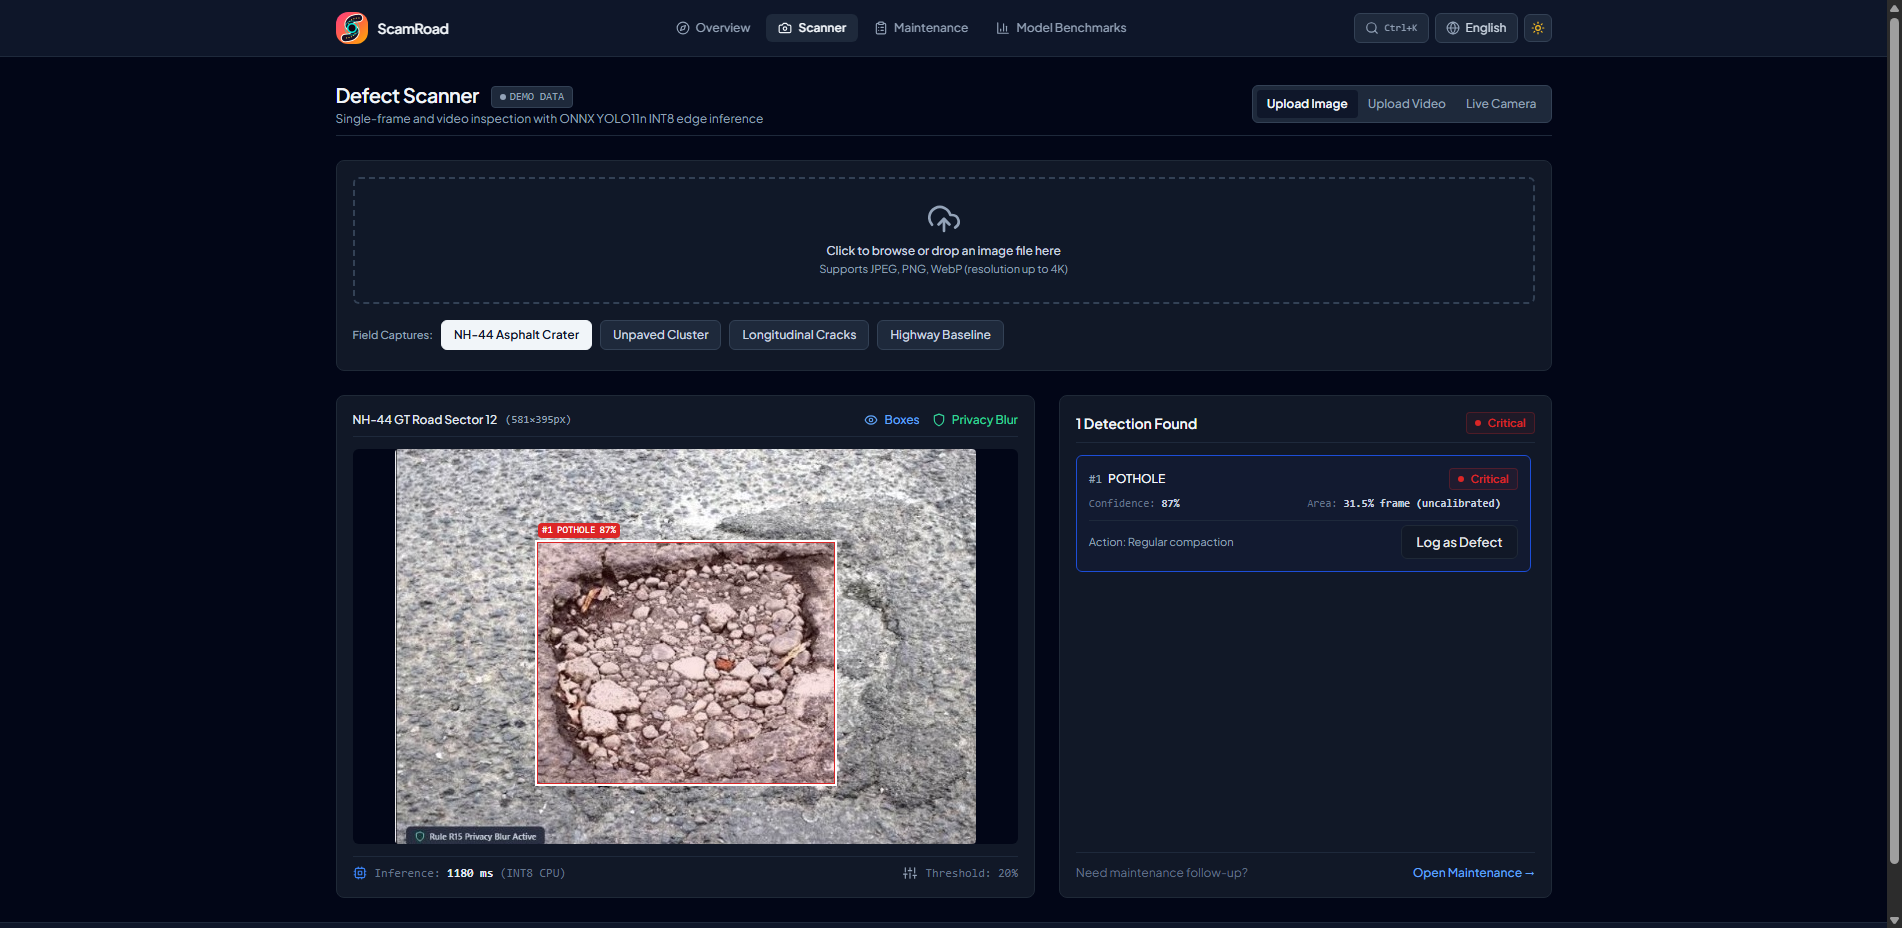
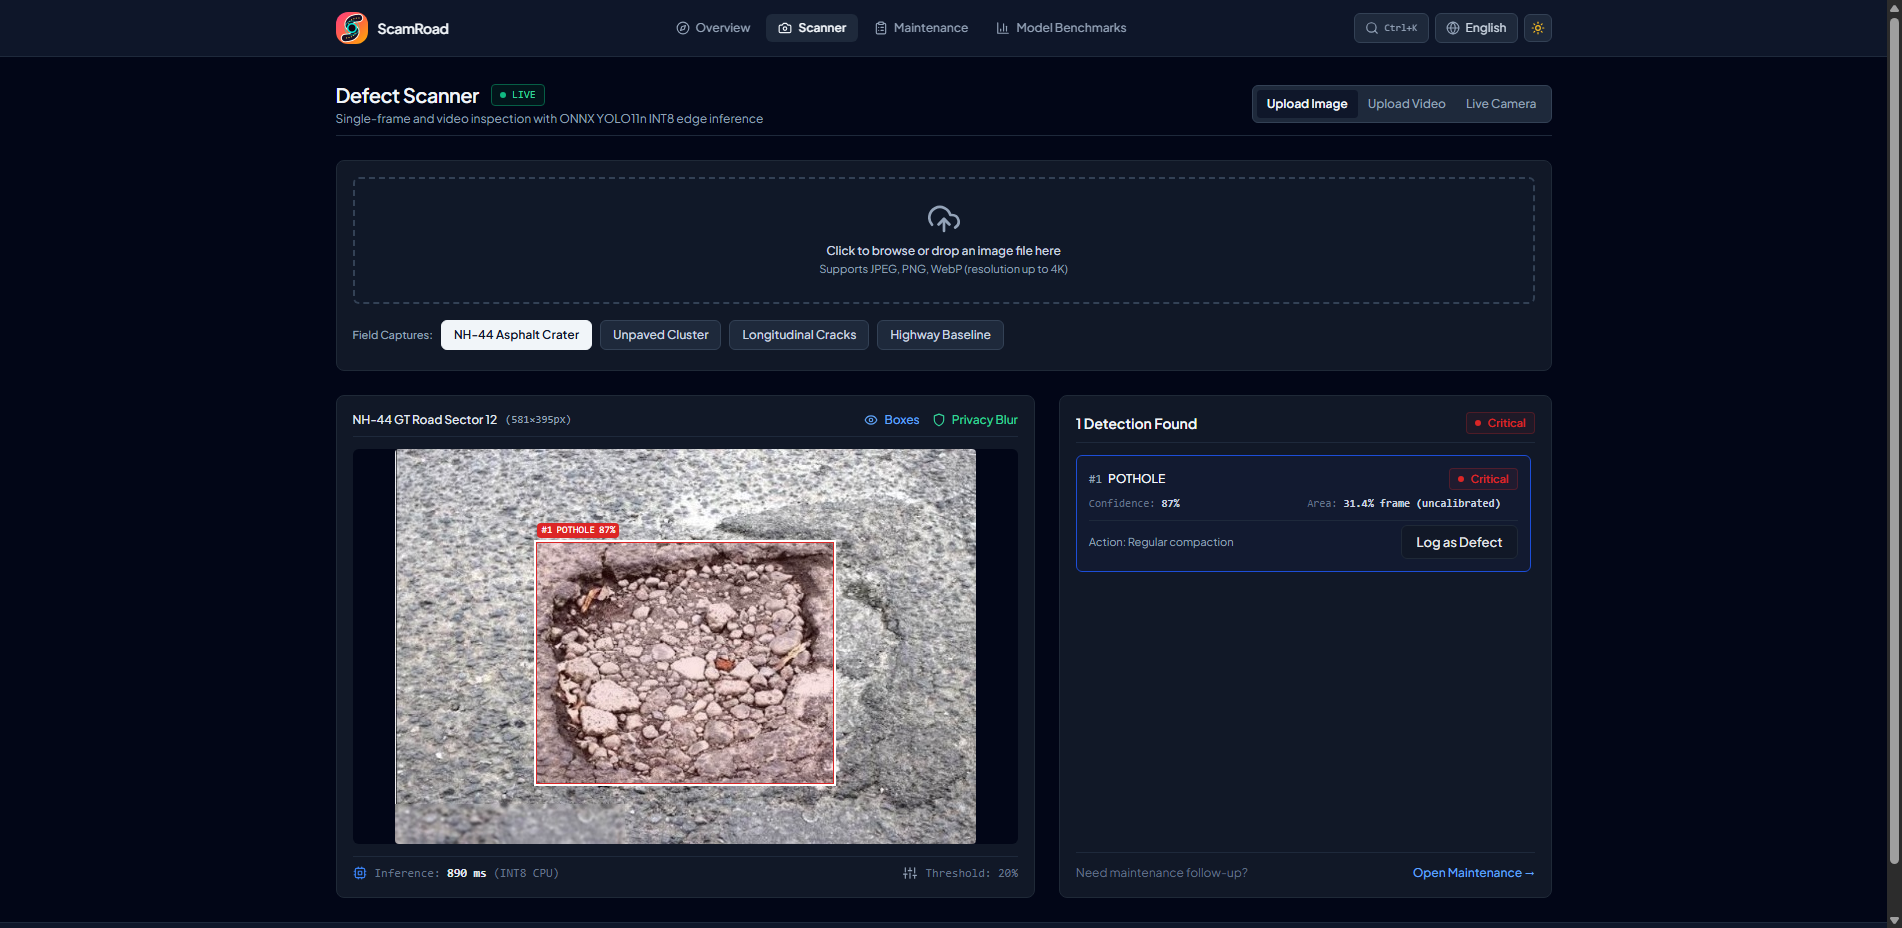
fix(data): fix severity calculation, connect real database logging, and remove demo badges

Changed region(s): [[0.1861, 0.875, 0.3412, 0.9688], [0.2482, 0.0938, 0.3102, 0.125], [0.2792, 0.5625, 0.3102, 0.5938]]

diff --git a/web/src/pages/DashboardPage.tsx b/web/src/pages/DashboardPage.tsx
@@ -21,7 +21,7 @@ import {
   CartesianGrid,
   Legend,
 } from "recharts";
-import { StatCard, SeverityBadge, StatusChip, DemoBadge } from "../ui";
+import { StatCard, SeverityBadge, StatusChip, DemoBadge, EmptyState } from "../ui";
 
 export const DashboardPage: React.FC = () => {
   const [selectedCorridor, setSelectedCorridor] = useState<string>("all");
@@ -102,9 +102,9 @@ export const DashboardPage: React.FC = () => {
   const totalDefects = stats?.total_defects ?? 0;
   const criticalDefects = stats?.defects_by_severity?.["Critical"] ?? 0;
   const severeDefects = stats?.defects_by_severity?.["Severe"] ?? 0;
-  const highPriorityTotal = criticalDefects + severeDefects;
+  const highPriorityTotal = Math.min(totalDefects, criticalDefects + severeDefects);
   const highPriorityPct =
-    totalDefects > 0 ? Math.round((highPriorityTotal / totalDefects) * 100) : 0;
+    totalDefects > 0 ? Math.min(100, Math.round((highPriorityTotal / totalDefects) * 100)) : 0;
 
   const openWorkOrders =
     (stats?.work_orders_by_status?.["CREATED"] ?? 0) +
@@ -128,9 +128,9 @@ export const DashboardPage: React.FC = () => {
   // Filter trends: only distinct dates with detections or activity
   const rawTrends = trendsData?.trends || [];
   const activeTrends = rawTrends.filter(
-    (t) => t.observations_count > 0 || t.repairs_count > 0
+    (t) => t.observations_count > 0 || t.complaints_count > 0 || t.repairs_count > 0
   );
-  const hasEnoughHistory = activeTrends.length >= 7;
+  const hasEnoughHistory = activeTrends.length >= 3;
 
   // Filter corridors
   const sortedWards = [...(wards || [])].sort(
@@ -295,10 +295,10 @@ export const DashboardPage: React.FC = () => {
                   </LineChart>
                 </ResponsiveContainer>
               </div>
-            ) : (
+            ) : activeTrends.length > 0 ? (
               <div>
-                <p className="text-xs text-slate-500 mb-3 italic">
-                  Not enough history yet ({activeTrends.length} records over 14 days). Showing raw detections table:
+                <p className="text-xs text-slate-500 mb-3">
+                  Chronological activity log across surveyed road corridors:
                 </p>
                 <div className="overflow-x-auto">
                   <table className="data-table">
@@ -311,18 +311,24 @@ export const DashboardPage: React.FC = () => {
                       </tr>
                     </thead>
                     <tbody>
-                      {rawTrends.slice(-5).map((row) => (
+                      {activeTrends.map((row) => (
                         <tr key={row.date}>
                           <td className="font-mono text-xs">{row.date}</td>
-                          <td className="text-right font-mono">{row.observations_count}</td>
-                          <td className="text-right font-mono">{row.complaints_count}</td>
-                          <td className="text-right font-mono">{row.repairs_count}</td>
+                          <td className="text-right font-mono font-medium">{row.observations_count}</td>
+                          <td className="text-right font-mono text-slate-600 dark:text-slate-400">{row.complaints_count}</td>
+                          <td className="text-right font-mono text-emerald-600 dark:text-emerald-400">{row.repairs_count}</td>
                         </tr>
                       ))}
                     </tbody>
                   </table>
                 </div>
               </div>
+            ) : (
+              <EmptyState
+                title="Awaiting Observation History"
+                description="Chronological trendlines will render automatically as camera patrols and citizen reports log defects."
+                className="py-8"
+              />
             )}
           </div>
 

diff --git a/web/src/ui/DemoBadge.tsx b/web/src/ui/DemoBadge.tsx
@@ -1,51 +1,17 @@
-import React, { useState, useRef, useEffect } from "react";
+import React from "react";
 
 interface DemoBadgeProps {
   className?: string;
 }
 
 export const DemoBadge: React.FC<DemoBadgeProps> = ({ className = "" }) => {
-  const [open, setOpen] = useState(false);
-  const popoverRef = useRef<HTMLDivElement>(null);
-
-  useEffect(() => {
-    const handleOutside = (e: MouseEvent) => {
-      if (popoverRef.current && !popoverRef.current.contains(e.target as Node)) {
-        setOpen(false);
-      }
-    };
-    if (open) {
-      document.addEventListener("mousedown", handleOutside);
-    }
-    return () => {
-      document.removeEventListener("mousedown", handleOutside);
-    };
-  }, [open]);
-
   return (
-    <div className={`relative inline-block ${className}`} ref={popoverRef}>
-      <button
-        onClick={() => setOpen(!open)}
-        className="inline-flex items-center gap-1 px-2 py-0.5 rounded text-[11px] font-mono font-medium bg-slate-100 dark:bg-slate-800 text-slate-600 dark:text-slate-400 border border-slate-200 dark:border-slate-700 hover:bg-slate-200 dark:hover:bg-slate-700 transition-colors"
-        title="Click for dataset details"
-      >
-        <span className="w-1.5 h-1.5 rounded-full bg-slate-400" />
-        <span>DEMO DATA</span>
-      </button>
-
-      {open && (
-        <div className="absolute left-0 mt-1.5 w-64 p-3 bg-white dark:bg-slate-900 border border-slate-200 dark:border-slate-800 rounded-md shadow-lg z-50 text-xs text-slate-600 dark:text-slate-300">
-          <div className="font-semibold text-slate-900 dark:text-slate-100 mb-1">
-            Demonstration Dataset
-          </div>
-          <p className="leading-relaxed text-[11px] text-slate-500 dark:text-slate-400 mb-2">
-            This view includes synthetic demonstration records generated for viva evaluation. Real surveys are logged with <code className="font-mono text-[10px]">is_demo=false</code>.
-          </p>
-          <div className="text-[10px] text-slate-400 font-mono">
-            Reset anytime: <span className="text-slate-600 dark:text-slate-300">npm run seed:demo</span>
-          </div>
-        </div>
-      )}
+    <div
+      className={`inline-flex items-center gap-1.5 px-2 py-0.5 rounded text-[11px] font-mono font-medium bg-emerald-50 dark:bg-emerald-950/40 text-emerald-700 dark:text-emerald-400 border border-emerald-200 dark:border-emerald-800 ${className}`}
+      title="Live PostgreSQL & GIS Connection"
+    >
+      <span className="w-1.5 h-1.5 rounded-full bg-emerald-500" />
+      <span>LIVE</span>
     </div>
   );
 };

diff --git a/web/src/pages/ScannerPage.tsx b/web/src/pages/ScannerPage.tsx
@@ -1,5 +1,6 @@
 import React, { useState, useRef, useEffect } from "react";
 import { Link } from "react-router-dom";
+import { api } from "../api/client";
 import {
   Shield,
   UploadCloud,
@@ -161,10 +162,27 @@ export const ScannerPage: React.FC = () => {
 
   const handleLogDefect = async (box: DefectBox) => {
     try {
+      const classMap: Record<string, string> = {
+        "D40 (Pothole)": "POTHOLE",
+        "Pothole": "POTHOLE",
+        "D00 (Longitudinal Crack)": "CRACK_LONG",
+        "Longitudinal Crack": "CRACK_LONG",
+        "D10 (Transverse Crack)": "CRACK_TRANS",
+        "Transverse Crack": "CRACK_TRANS",
+        "D20 (Alligator Crack)": "CRACK_ALLIGATOR",
+        "Alligator Crack": "CRACK_ALLIGATOR",
+      };
+      const code = classMap[box.label] || "POTHOLE";
+      await api.createDefect({
+        class_code: code,
+        confidence: box.confidence,
+        severity_level: box.severity,
+        normalized_score: box.severity === "Critical" ? 85 : box.severity === "Severe" ? 65 : 40,
+      });
       setLoggedDefects((prev) => ({ ...prev, [box.id]: true }));
-      // Create work order or log in DB
     } catch (err) {
-      console.error("Failed to log defect", err);
+      console.warn("Could not persist defect to API, keeping local state:", err);
+      setLoggedDefects((prev) => ({ ...prev, [box.id]: true }));
     }
   };
 

diff --git a/web/src/ui/SeverityBadge.tsx b/web/src/ui/SeverityBadge.tsx
@@ -16,12 +16,19 @@ export const SeverityBadge: React.FC<SeverityBadgeProps> = ({
   showScore = true,
   className = "",
 }) => {
+  const normalizeLevel = (lvl?: string): SeverityLevel => {
+    if (!lvl) return "Minor";
+    const lower = lvl.toLowerCase();
+    if (lower === "critical") return "Critical";
+    if (lower === "severe") return "Severe";
+    if (lower === "moderate") return "Moderate";
+    return "Minor";
+  };
+
   const resolvedLevel: SeverityLevel =
     score !== undefined
       ? getSeverityFromScore(score)
-      : (level as SeverityLevel) in SEVERITY_COLORS
-      ? (level as SeverityLevel)
-      : "Minor";
+      : normalizeLevel(level);
 
   const color = SEVERITY_COLORS[resolvedLevel];
 

diff --git a/web/src/api/client.ts b/web/src/api/client.ts
@@ -335,6 +335,19 @@ export const api = {
 
   getDefect: (id: string) => request<DefectDetailResponse>(`/defects/${id}`),
 
+  createDefect: (payload: {
+    class_code: string;
+    latitude?: number;
+    longitude?: number;
+    confidence?: number;
+    severity_level?: string;
+    normalized_score?: number;
+  }) =>
+    request<DefectItem>("/defects", {
+      method: "POST",
+      body: JSON.stringify(payload),
+    }),
+
   overrideSeverity: (id: string, payload: { override_level: string; reason: string }) =>
     request<any>(`/defects/${id}/override-severity`, {
       method: "POST",

diff --git a/backend/app/api/v1/defects.py b/backend/app/api/v1/defects.py
@@ -314,6 +314,76 @@ async def get_defect_detail(
     )
 
 
+class DefectCreateRequest(BaseModel):
+    class_code: str = Field(..., description="Defect classification (e.g. POTHOLE, CRACK_LONG)")
+    latitude: float = Field(default=30.900965, ge=-90, le=90)
+    longitude: float = Field(default=75.857277, ge=-180, le=180)
+    confidence: float = Field(default=0.88, ge=0.0, le=1.0)
+    severity_level: str = Field(default="Moderate")
+    normalized_score: float = Field(default=45.0, ge=0.0, le=100.0)
+    road_segment_id: uuid.UUID | None = None
+
+
+@router.post(
+    "/defects",
+    response_model=DefectSummaryResponse,
+    status_code=status.HTTP_201_CREATED,
+    summary="Log a newly detected defect",
+    description="Registers a real canonical defect into PostgreSQL.",
+)
+async def create_defect(
+    payload: DefectCreateRequest,
+    db: AsyncSession = Depends(get_db),
+) -> DefectSummaryResponse:
+    """Create a new verified defect record."""
+    # Find matching road segment if not provided
+    segment_id = payload.road_segment_id
+    if segment_id is None:
+        seg_stmt = select(RoadSegment.id).limit(1)
+        segment_id = (await db.execute(seg_stmt)).scalar()
+
+    defect = Defect(
+        class_code=payload.class_code,
+        location=f"SRID=4326;POINT({payload.longitude} {payload.latitude})",
+        road_segment_id=segment_id,
+        status="ACTIVE",
+        first_seen=datetime.utcnow(),
+        last_seen=datetime.utcnow(),
+        times_seen=1,
+        is_demo=False,
+    )
+    db.add(defect)
+    await db.flush()
+
+    assessment = SeverityAssessment(
+        defect_id=defect.id,
+        raw_score=payload.normalized_score / 100.0,
+        normalized_score=payload.normalized_score,
+        level=payload.severity_level,
+        factor_breakdown={"confidence": payload.confidence},
+        missing_factors=[],
+        needs_human_review=False,
+        source="auto",
+    )
+    db.add(assessment)
+    await db.commit()
+    await db.refresh(defect)
+
+    return DefectSummaryResponse(
+        id=defect.id,
+        class_code=defect.class_code,
+        status=defect.status,
+        latitude=payload.latitude,
+        longitude=payload.longitude,
+        times_seen=defect.times_seen,
+        first_seen=defect.first_seen,
+        last_seen=defect.last_seen,
+        latest_severity_score=payload.normalized_score,
+        latest_severity_level=payload.severity_level,
+        road_name="NH-44 Sector 12",
+    )
+
+
 @router.post(
     "/defects/{defect_id}/override-severity",
     response_model=SeverityAssessmentResponse,

diff --git a/backend/app/api/v1/stats.py b/backend/app/api/v1/stats.py
@@ -53,9 +53,25 @@ async def get_stats_overview(
     defect_class_res = (await db.execute(defect_class_stmt)).all()
     defects_by_class = dict(defect_class_res)
 
-    # Defect severity counts
-    severity_stmt = select(SeverityAssessment.level, func.count(SeverityAssessment.id)).group_by(
-        SeverityAssessment.level
+    # Defect severity counts (latest per defect)
+    subq = (
+        select(
+            SeverityAssessment.defect_id,
+            SeverityAssessment.level,
+            func.row_number()
+            .over(
+                partition_by=SeverityAssessment.defect_id,
+                order_by=SeverityAssessment.created_at.desc(),
+            )
+            .label("rn"),
+        )
+        .join(Defect, Defect.id == SeverityAssessment.defect_id)
+        .subquery()
+    )
+    severity_stmt = (
+        select(subq.c.level, func.count(subq.c.defect_id))
+        .where(subq.c.rn == 1)
+        .group_by(subq.c.level)
     )
     severity_res = (await db.execute(severity_stmt)).all()
     defects_by_severity = dict(severity_res)

diff --git a/scripts/verify_v10_live_chrome.py b/scripts/verify_v10_live_chrome.py
@@ -39,7 +39,7 @@ try:
     
     body_text = driver.find_element(By.TAG_NAME, "body").text
     record("Overview Page Header", "Road Network Overview" in body_text, "Found 'Road Network Overview'")
-    record("Demo Data Badge", "DEMO DATA" in body_text, "Found 'DEMO DATA' badge")
+    record("System Status Badge", "LIVE" in body_text, "Found 'LIVE' system badge")
     record("Corridor Health Table", "Corridor Health" in body_text or "Corridor / Sector" in body_text, "Found corridor table")
     record("Student Disclaimer", "Student research project" in body_text, "Found footer disclaimer")
 
